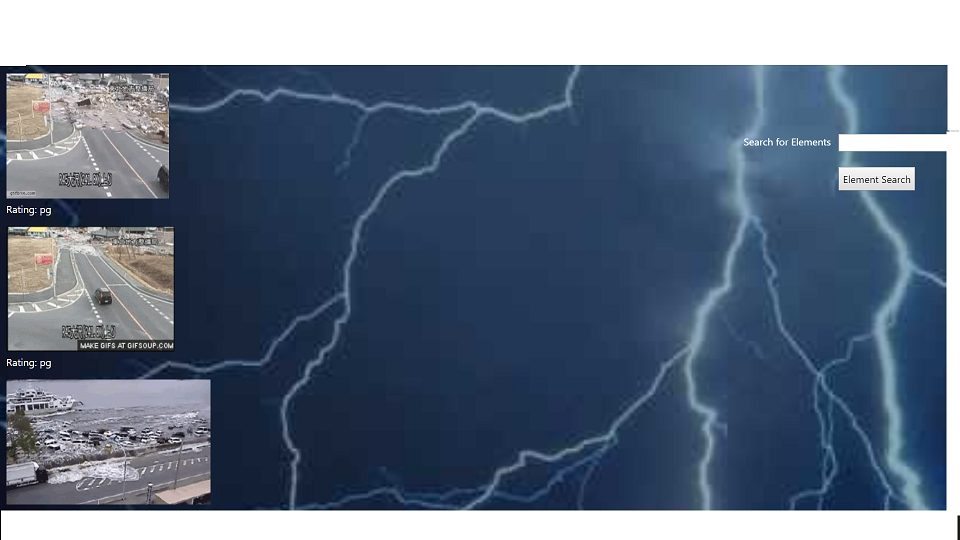
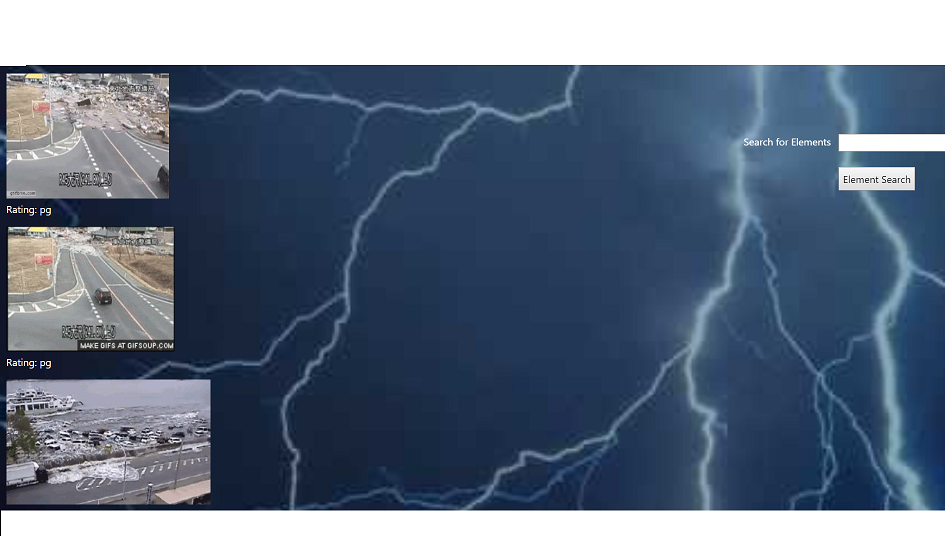
animation added

diff --git a/assets/css/style.css b/assets/css/style.css
@@ -24,6 +24,7 @@ body {
 html,
 body {
   height: 100%;
+  
 }
 
 /* general */
@@ -120,12 +121,29 @@ h3 {
   font-size: 30px;
   font-weight: 700;
   line-height: 90px;
-  color: #004445;
+  color: #92a5de;
   text-align: center;
   text-decoration: none;
 
   /* Visual */
-  background: #6Fb98F;
+  /* background: #6Fb98F; */
+  text-shadow:
+  0px 0px 0 rgb(137,156,213),1px 1px 0 rgb(129,148,205),2px 2px 0 rgb(120,139,196),3px 3px 0 rgb(111,130,187),4px 4px 0 rgb(103,122,179),5px 5px 0 rgb(94,113,170),6px 6px 0 rgb(85,104,161),7px 7px 0 rgb(76,95,152),8px 8px 0 rgb(68,87,144),9px 9px 0 rgb(59,78,135),10px 10px 0 rgb(50,69,126),11px 11px 0 rgb(42,61,118),12px 12px 0 rgb(33,52,109),13px 13px 0 rgb(24,43,100),14px 14px 0 rgb(15,34,91),15px 15px 0 rgb(7,26,83),16px 16px 0 rgb(-2,17,74),17px 17px 0 rgb(-11,8,65),18px 18px 0 rgb(-19,0,57),19px 19px 0 rgb(-28,-9,48), 20px 20px 0 rgb(-37,-18,39),21px 21px 20px rgba(0,0,0,1),21px 21px 1px rgba(0,0,0,0.5),0px 0px 20px rgba(0,0,0,.2);
+}
+figure {
+  /* widows: 100%; */
+  margin: 0;
+  padding: 0px 0 0 0;
+  /* position: absolute; */
+  left: 0;
+  bottom: 0px;
+  overflow: hidden;
+  background: url("../images/background.png");
+  animation: background_anim 100s linear infinite;
+}
+@keyframes background_anim{
+  0%{background-position:0 0px; }
+  100%{background-position: 0 650px;}
 }
 
 nav {
@@ -154,7 +172,7 @@ nav li {
 
 nav a {
   /* Typography */
-  color: #2c7873;
+  color: mintcream;
   text-decoration: none;
   text-shadow: 1px 1px 5px #021C1E, 2px 1px 25px #004445 , 2px 1px 25px #6Fb98F;
 }
@@ -178,24 +196,23 @@ nav li:first-child {
 
 footer,
 .push {
-  height: 100px;
+  height: 30px;
 }
 
 footer {
   /* Box-model */
-  padding: 30px 0;
+  padding: 10px ;
 
   /* Positioning */
   clear: both;
-  font-size: 12px;
+  font-size: 16px;
 
   /* Typography */
-  color: #ccc;
+ 
   text-align: center;
 
   /* Visual */
-  background: #021C1E;
-  border-top: 8px solid #2c7873;
+  
 }
 
 /* sidebar */
@@ -292,6 +309,7 @@ main {
 .work img {
   /* Box-model */
   width: 100%;
+  height: 200px;
 
   /* Visual */
   border: 0 none;
@@ -321,18 +339,18 @@ main {
   /* Visual */
   border-bottom: 0;
 }
-
+/* 
 .auth-image {
   float: left;
 
   /* Box-model */
-  width: 200px;
+  /* width: 200px;
   height: auto;
   margin-top: 10px;
 
   /* Positioning */
-  margin-right: 25px;
-}
+  /* margin-right: 25px;
+}  */
 
 /* contact page */
 
@@ -386,6 +404,35 @@ input[type=submit] {
   /* Visual */
   border: 0 none;
 
+}
+.flash {
+  animation-duration: 10s;
+  animation-timing-function: ease-in-out;
+  animation-iteration-count: inherit;
+}
+.rollIn {
+  animation-delay: 2s;
+  animation-timing-function: ease-in;
+  
+}
+.zoomInRight {
+  animation-delay: 3s;
+  float: left;
+
+  /* Box-model */
+  width: 200px;
+  height: auto;
+  margin-top: 10px;
+
+  /* Positioning */
+  margin-right: 25px;
+
+}
+.flip {
+  animation-timing-function: ease;
+  animation-direction: alternate;
+  animation-duration: 6s;
+  animation-delay: 2s;
 }
 
 

diff --git a/portfolio.html b/portfolio.html
@@ -5,8 +5,10 @@
   <meta charset="UTF-8">
   <meta name="viewport" content="width=device-width, initial-scale=1.0">
   <title>Portfolio | Michael Nault</title>
-  <link rel="stylesheet" type="text/css" href="assets/css/style.css">
   <link href="https://fonts.googleapis.com/css?family=Black+Ops+One|Courgette|Dancing+Script" rel="stylesheet">
+  <!-- Animate css CDN -->
+  <link rel="stylesheet" href="https://cdnjs.cloudflare.com/ajax/libs/animate.css/3.7.2/animate.min.css">
+  <link rel="stylesheet" type="text/css" href="assets/css/style.css">
   <!-- <link rel="stylesheet" type="text/css" href="assets/css/reset.css"> -->
 </head>
 
@@ -16,11 +18,11 @@
 
     <header id="masthead">
       <div class="container">
-        <a href="index.html" id="logo">Michael Nault</a>
+        <a href="index.html" id="logo" class="animated flash ">Michael Nault</a>
         <nav>
-          <ul>
+          <ul class="animated flip">
             <li><a href="index.html">About</a></li>
-            <li><a href="portfolio.html">Portfolio</a></li>
+            <li><a href="https://github.com/Mgncoding">GitHub</a></li>
             <li><a href="contact.html">Contact</a></li>
             <li><a id="resume" href="file:///C:/Users/nault/Downloads/Resume.pdf" target="_blank">Resume</a></li>
           </ul>
@@ -52,14 +54,20 @@
           <h3>Giphy</h3></a>
         </div>
         <div class="work">
-          <img src="assets/images/technics-q-c-640-480-7.jpg" alt="Info Widget">
-
-          <h3>Info Widget</h3>
+          <a href="https://pauldavis-code.github.io/OneDayOffUpdate/" target="_blank">
+          <img src="assets/images/OneDayOff.png" alt="OneDayOff">
+          <h3>OneDayOff</h3>
+          </a>
+          
+    
         </div>
         <div class="work">
-          <img src="assets/images/technics-q-c-640-480-9.jpg" alt="Rock Paper Scissors">
+          <a href="https://thawing-river-74436.herokuapp.com/" target="_blank">
+          <img src="assets/images/Eat-Da-Burger.png" alt="Eat-Da_burger">
+          <h3>Eat-Da-Burger</h3>
+          </a>
 
-          <h3>Rock Paper Scissors</h3>
+     
         </div>
 
       </section>

diff --git a/index.html b/index.html
@@ -7,6 +7,8 @@
   <title>About | Michael Nault</title>
   <link rel="stylesheet" type="text/css" href="assets/css/style.css">
   <link href="https://fonts.googleapis.com/css?family=Black+Ops+One|Courgette|Dancing+Script" rel="stylesheet">
+  <!-- Animate css CDN -->
+  <link rel="stylesheet" href="https://cdnjs.cloudflare.com/ajax/libs/animate.css/3.7.2/animate.min.css">
 </head>
 
 <body>
@@ -18,7 +20,7 @@
         <a href="index.html" id="logo">Michael Nault</a>
         <nav>
           <ul>
-            <li><a href="index.html">About</a></li>
+            <li><a href="file:///C:/Users/nault/Downloads/Resume.pdf" target="_blank">Resume</a></li>
             <li><a href="portfolio.html">Portfolio</a></li>
             <li><a href="contact.html">Contact</a></li>
             <li><a href="https://github.com/Mgncoding" target="_blank">GitHub</a></li>
@@ -31,13 +33,13 @@
       <section class="main-section">
         <h1>About Me</h1>
 
-        <img src="assets/images/cat.jpg" class="auth-image" alt="placeholder">
+        <img class="animated zoomInRight" src="assets/images/cat.jpg" class="auth-image"  alt="placeholder">
 
-        <p>Marshmallow jelly souffl&eacute; pastry biscuit gummi bears tootsie roll tootsie roll gingerbread. Cotton
+        <p class="animated rollIn">Marshmallow jelly souffl&eacute; pastry biscuit gummi bears tootsie roll tootsie roll gingerbread. Cotton
           candy muffin gingerbread fruitcake. Sweet roll souffl&eacute; topping wafer croissant oat cake
           gummi&nbsp;bears.</p>
 
-        <p>Jelly-o cheesecake dessert fruitcake ice cream brownie liquorice souffl&eacute;. Caramels biscuit gummi bears
+        <p  class="animated rollIn">Jelly-o cheesecake dessert fruitcake ice cream brownie liquorice souffl&eacute;. Caramels biscuit gummi bears
           tiramisu chupa chups. Croissant macaroon cotton candy cake pudding.</p>
 
       </section>

diff --git a/contact.html b/contact.html
@@ -6,29 +6,35 @@
   <title>Contact | Michael Nault</title>
   <link rel="stylesheet" type="text/css" href="assets/css/style.css">
   <link href="https://fonts.googleapis.com/css?family=Black+Ops+One|Courgette|Dancing+Script" rel="stylesheet">
+  <!-- Animate css CDN -->
+  <link rel="stylesheet" href="https://cdnjs.cloudflare.com/ajax/libs/animate.css/3.7.2/animate.min.css">
 </head>
 <body>
 
+  
 <div class="wrapper">
-
-  <header id="masthead">
-    <div class="container">
+  <figure>
+    
+    <header id="masthead">
+      <div class="container">
       <a href="index.html" id="logo">Michael Nault</a>
       <nav>
         <ul>
           <li><a href="index.html">About</a></li>
           <li><a href="portfolio.html">Portfolio</a></li>
-          <li><a href="contact.html">Contact</a></li>
+          <li><a href="https://github.com/Mgncoding">GitHub</a></li>
         </ul>
       </nav>
     </div>
   </header>
-
+  
   <main class="container">
+    
     <section class="main-section">
       <h1>Contact</h1>
 
-      <form id="contact-form">
+      <!-- Able to send a direct email using mailto -->
+      <form id="contact-form" action="mailto:naultmichael1@gmail.com" method="POST">
         <ul>
           <li>
             <label for="name">Name</label>
@@ -47,16 +53,19 @@
       </form>
 
     </section>
-
+    
   </main>
   <div class="push"></div>
 </div>
 
-  <footer>
-    <div class="container">
-      &copy; Copyright
-    </div>
-  </footer>
+
+<footer>
+  <div class="container">
+    &copy; Copyright
+  </div>
+  <!-- <img width="100%" src="assets/images/background.png"> -->
+  </figure>
+</footer>
   <script src="https://code.jquery.com/jquery-3.3.1.slim.min.js"
   integrity="sha384-q8i/X+965DzO0rT7abK41JStQIAqVgRVzpbzo5smXKp4YfRvH+8abtTE1Pi6jizo"
   crossorigin="anonymous"></script>

diff --git a/assets/javascript/app.js b/assets/javascript/app.js
@@ -3,7 +3,5 @@
       resolution: 500,
       dropRadius: 10, //px
       perturbance: 1,
+      color: "black",
     });
-
-    
-    
